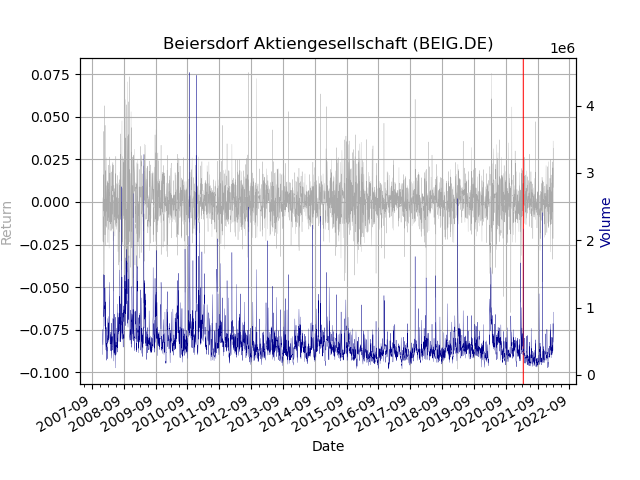
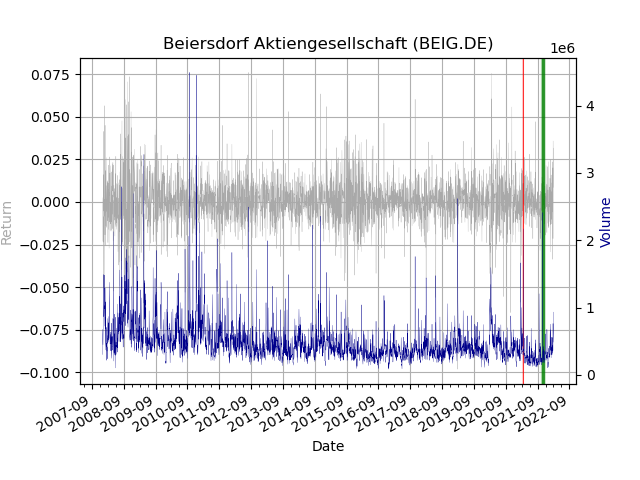
plot adaption

Changed region(s): [[0.8438, 0.125, 0.875, 0.8125]]

diff --git a/01_Data_and_Preprocessing/01_preprocessing.py b/01_Data_and_Preprocessing/01_preprocessing.py
@@ -185,13 +185,13 @@ ax2.set_ylabel('Volume', color='darkblue')
 plt.title('DAX')
 
 # Inclusions
+# #Note: somehow the plot gets screwed if we put Inclusion and Exclusion in one Loop
 i = 0
 for date in info_df_plot['datetime']:
     if info_df_plot['Type'][i] == 'Included':
         plt.axvspan(info_df_plot['datetime'][i], info_df_plot['datetime'][i], color='green', alpha=0.8, lw=2.5)
         plt.axvspan(info_df_plot['datetime_announcement'][i], info_df_plot['datetime_announcement'][i], color='green', alpha=0.2, lw=2.5)
     i +=1 
-
 
 # Exclusion
 i = 0
@@ -213,14 +213,18 @@ plt.savefig(local_git_link + '/01_Data_and_Preprocessing/00_Stock_Visualization/
 for ticker in info_df_plot['Ticker']:
     vol = ticker + ' Volume'
     ret = ticker + ' Return'
+
     name = info_df_plot[info_df_plot['Ticker']==ticker]['Firmenname'].reset_index(drop=True)[0]
-    
     datetime = info_df_plot[info_df_plot['Ticker']==ticker]['datetime'].reset_index(drop=True)[0]
-
     datetime_announcement = info_df_plot[info_df_plot['Ticker']==ticker]['datetime_announcement'].reset_index(drop=True)[0]
+    type = info_df_plot[info_df_plot['Ticker']==ticker]['Type'].reset_index(drop=True)[0]
 
-    type_1 = info_df_plot[info_df_plot['Ticker']==ticker]['Type'].reset_index(drop=True)[0]
-    #type_2 = info_df_plot[info_df_plot['Ticker']==ticker]['Type'].reset_index(drop=True)[1]
+    duplicate = ticker in pd.concat(d for l, d in info_df_plot.groupby("Ticker") if len(d) > 1).values
+    if duplicate:
+        datetime_2 = info_df_plot[info_df_plot['Ticker']==ticker]['datetime'].reset_index(drop=True)[1]
+        datetime_announcement_2 = info_df_plot[info_df_plot['Ticker']==ticker]['datetime_announcement'].reset_index(drop=True)[1]
+        type_2 = info_df_plot[info_df_plot['Ticker']==ticker]['Type'].reset_index(drop=True)[1]
+    else: type_2 = 'None'
 
     fig, ax = plt.subplots()
     ax2 = ax.twinx()
@@ -248,13 +252,20 @@ for ticker in info_df_plot['Ticker']:
 
     # Inclusions
     if datetime is not 'NaT':
-        if type_1 == 'Included':
+        if type == 'Included':
             plt.axvspan(pd.to_datetime(datetime), pd.to_datetime(datetime), color='green', alpha=0.8, lw=2.5)
             plt.axvspan(pd.to_datetime(datetime_announcement), pd.to_datetime(datetime_announcement), color='green', alpha=0.2, lw=2.5)
+        if type_2 == 'Included':
+            plt.axvspan(pd.to_datetime(datetime_2), pd.to_datetime(datetime_2), color='green', alpha=0.8, lw=2.5)
+            plt.axvspan(pd.to_datetime(datetime_announcement_2), pd.to_datetime(datetime_announcement_2), color='green', alpha=0.2, lw=2.5)
 
-        if type_1 == 'Excluded':
+        if type == 'Excluded':
             plt.axvspan(pd.to_datetime(datetime), pd.to_datetime(datetime), color='red', alpha=0.8, lw=.75)
             plt.axvspan(pd.to_datetime(datetime_announcement), pd.to_datetime(datetime_announcement), color='red', alpha=0.2, lw=.75)
+        if type_2 == 'Excluded':
+            plt.axvspan(pd.to_datetime(datetime_2), pd.to_datetime(datetime_2), color='red', alpha=0.8, lw=.75)
+            plt.axvspan(pd.to_datetime(datetime_announcement_2), pd.to_datetime(datetime_announcement_2), color='red', alpha=0.2, lw=.75)    
+
 
     fig.autofmt_xdate()
 
